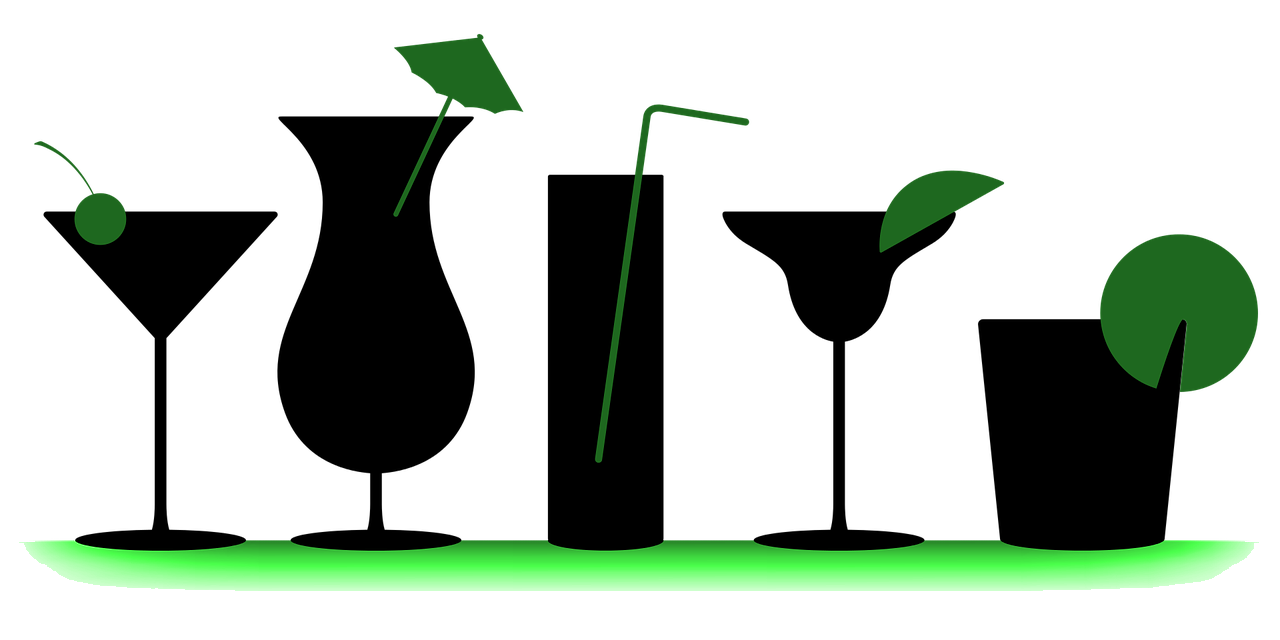
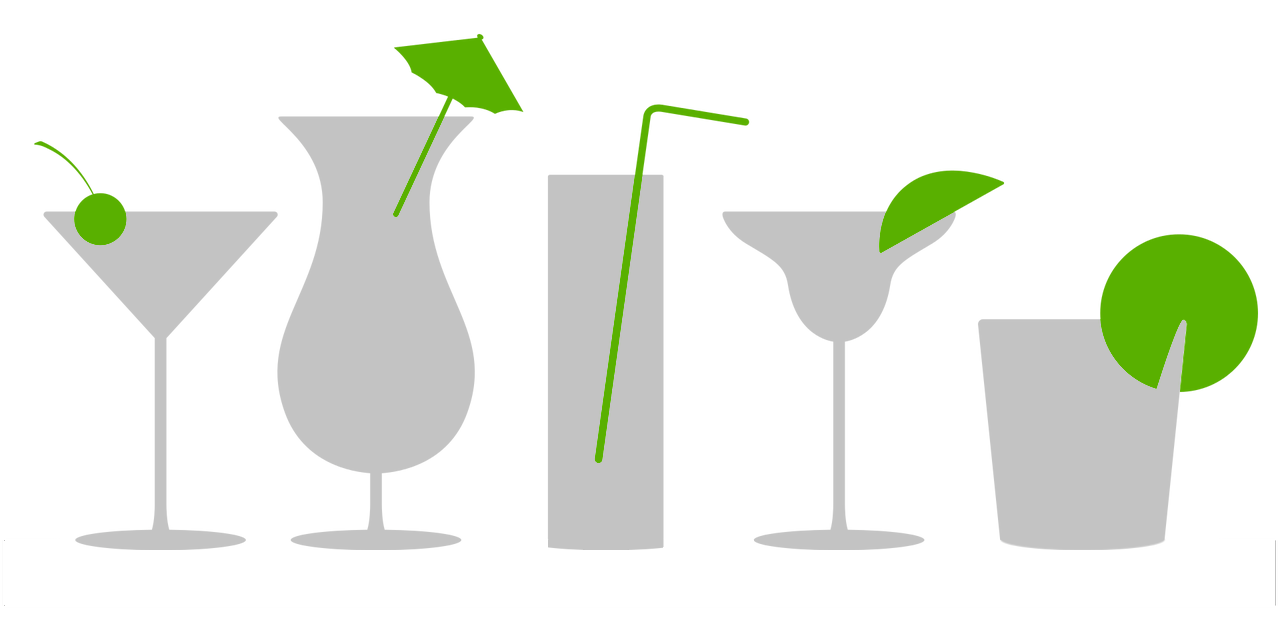
Added about me and altered index.html

diff --git a/views/partial-about.html b/views/partial-about.html
@@ -1,0 +1,42 @@
+<div class="jumbotron text-center mx-auto lg-container no-bg">
+  <div class="mb-5">
+    <h1 class="display-4 text-white">HoldMyLiquor</h1>
+    <p class="lead text-white">This site is our first fullstack project, with
+    fully realized front and backend
+    elements. Click the link below to look at the code on GitHub or clone it to
+    replicate on your local machine!</p>
+    <a href="https://github.com/allybrannon/HoldMyLiquor" class="btn
+    btn-success">Project Repository on GitHub</a>
+  </div>
+  <h4 class="text-white mb-4">More about the authors:</h4>
+  <div class="card-container">
+    <div class="card">
+      <img
+      src="https://avatars0.githubusercontent.com/u/58038239?s=460&u=e9aec50d87b13fb0273812255fbe488c301c76cd&v=4"
+      class="card-img-top" alt="Profile Image">
+      <div class="card-body text-center">
+        <h4 class="card-title mb-4">Ally Brannon</h4>
+        <a href="https://github.com/allybrannon" class="btn btn-success">GitHub</a>
+        <a href="https://www.linkedin.com/in/allybrannon/" class="btn btn-secondary">LinkedIn</a>
+      </div>
+    </div>
+    <div class="card">
+      <img src="https://media-exp1.licdn.com/dms/image/C5603AQGqlNXfS10-9A/profile-displayphoto-shrink_200_200/0?e=1589414400&v=beta&t=4CLo_RZBrYBybS5fNEnKzGjlBL-jOGNvkTpCM-34IOs" class="card-img-top" alt="Profile Image">
+      <div class="card-body text-center">
+        <h4 class="card-title mb-4">Victor Gamble</h4>
+        <a href="https://github.com/VictorGamble" class="btn btn-success">GitHub</a>
+        <a href="https://www.linkedin.com/in/victorgamblejr/" class="btn btn-secondary">LinkedIn</a>
+      </div>
+    </div>
+    <div class="card">
+      <img
+      src="https://avatars2.githubusercontent.com/u/39736230?s=460&u=4782f77b8eb8704e299b05cc48c8847fcb51d06b&v=4"
+      class="card-img img-fluid" alt="Profile Image">
+      <div class="card-body text-center">
+        <h4 class="card-title mb-4">Karley Petracca</h4>
+        <a href="https://github.com/karleypetracca" class="btn btn-success">GitHub</a>
+        <a href="https://www.linkedin.com/in/karleypetracca/" class="btn btn-secondary">LinkedIn</a>
+      </div>
+    </div>
+  </div>
+</div>

diff --git a/views/partial-index.html b/views/partial-index.html
@@ -1,6 +1,6 @@
 <div class="container-lg">
   <div class="hero-container">
-    <img class="drink-container" src="/images/cocktails-lineup.png" />
+    <img class="drink-container" src="/images/cocktails-lineup-green-shade4.png" />
     <h1 class="text-white">
       HoldMyLiquor
     </h1>
@@ -16,9 +16,12 @@
   </div>
   <div class="hero-container">
     <div class="hero-container text-white">
-      <h4>
-        <a class="text-white action-hover-link" href="/drink">Explore</a> |
-        <a class="text-white action-hover-link" href="/random">Random</a>
+      <h4 class="d-flex justify-content-center align-items-center">
+        <a class="text-white action-hover-link mx-4" href="/search">Explore</a>
+        <p class="my-4">|</p>
+        <a class="text-white action-hover-link mx-4" href="/random">Random</a>
+        <p class="my-4">|</p>
+        <a class="text-white action-hover-link mx-4" href="/about">About</a>
       </h4>
     </div>
   </div>

diff --git a/public/stylesheets/style.css b/public/stylesheets/style.css
@@ -22,18 +22,19 @@ a {
 }
 
 .main {
-  padding-top: 100px;
+  padding-top: 75px;
 }
+
 .action-hover-link {
   padding: 3px 5px;
-  line-height: 1;
+  line-height: 1.5;
 }
 
 .action-hover-link:hover {
   background-color: rgba(255, 255, 255, 0.2);
   border-radius: 4px;
   font-size: 1.05em;
-  margin: auto;
+  text-decoration: none;
 }
 
 .container-lg {
@@ -59,7 +60,7 @@ a {
   justify-content: space-evenly;
   align-items: start;
   flex-wrap: wrap;
-  background: rgb(233, 233, 233);
+  background: rgb(255, 255, 255);
   border-radius: 4px;
   padding-top: 20px;
   padding-bottom: 20px;
@@ -103,4 +104,18 @@ label.star:hover {
 label.star:before {
   content: "\f006";
   font-family: FontAwesome;
+}
+
+.card-container {
+  display: flex;
+  flex-wrap: wrap;
+  justify-content: space-evenly;
+}
+
+.card {
+  width: 250px;
+}
+
+.no-bg {
+  background-color: rgba(255, 255, 255, 0) !important;
 }

diff --git a/app.js b/app.js
@@ -33,10 +33,12 @@ app.set("view engine", "html");
 
 const indexRouter = require("./routes/index");
 const userRouter = require("./routes/user");
-const favoriteRouter = require('./routes/favorite');
+const favoriteRouter = require("./routes/favorite");
+const aboutRouter = require("./routes/about");
 
 app.use("/", indexRouter);
 app.use("/user", userRouter);
 app.use('/favorite', favoriteRouter);
+app.use("/about", aboutRouter);
 
 module.exports = app;

diff --git a/routes/about.js b/routes/about.js
@@ -1,0 +1,16 @@
+const express = require("express"),
+  router = express.Router();
+
+router.get("/", function (req, res) {
+  res.render("template", {
+    locals: {
+      title: "About",
+      sessionData: req.session
+    },
+    partials: {
+      partial: "partial-about"
+    }
+  });
+});
+
+module.exports = router;

diff --git a/README.md b/README.md
@@ -10,6 +10,7 @@ A little more description of what the project is about
 
 - Bootstrap
 - Cocktail DB API
+- Font Awesome
 
 ## Screenshots
 
@@ -21,15 +22,40 @@ What makes your project stand out?
 
 ## Installation
 
-Provide step by step series of examples and explanations about how to get a
-development env running.
+### Clone
+
+- Clone this repo to your local machine
+
+### Setup
+
+ install npm packages
+```
+$ npm i
+```
+
+- Create postgreSQL database based on schema ("SQLSchema.sql")
+- Connect database info accordingly via .env file 
+
+*Sample/template .env below:*
+```
+DB_HOST=YOUR DB_HOST_HERE
+DB_NAME=YOUR_DB_NAME_HERE
+DB_USER=YOUR_DB_USERNAME_HERE
+DB_PW=YOUR_DB_PASSWORD_HERE
+PORT=3000
+```
+
+- run program
+```
+$ npm run dev
+```
 
 ## Image sources:
 
 - [Site logo](https://pixabay.com/vectors/glass-silhouette-drink-alcohol-35622/)
+- [Background](https://pixabay.com/photos/party-wine-glasses-bar-bartender-2250007/)
 - [Drink
   Lineup](https://pixabay.com/vectors/cocktails-summer-beverages-1419481/)
-- [Glasses](https://pixabay.com/photos/party-wine-glasses-bar-bartender-2250007/)
 
 ## Authors:
 
